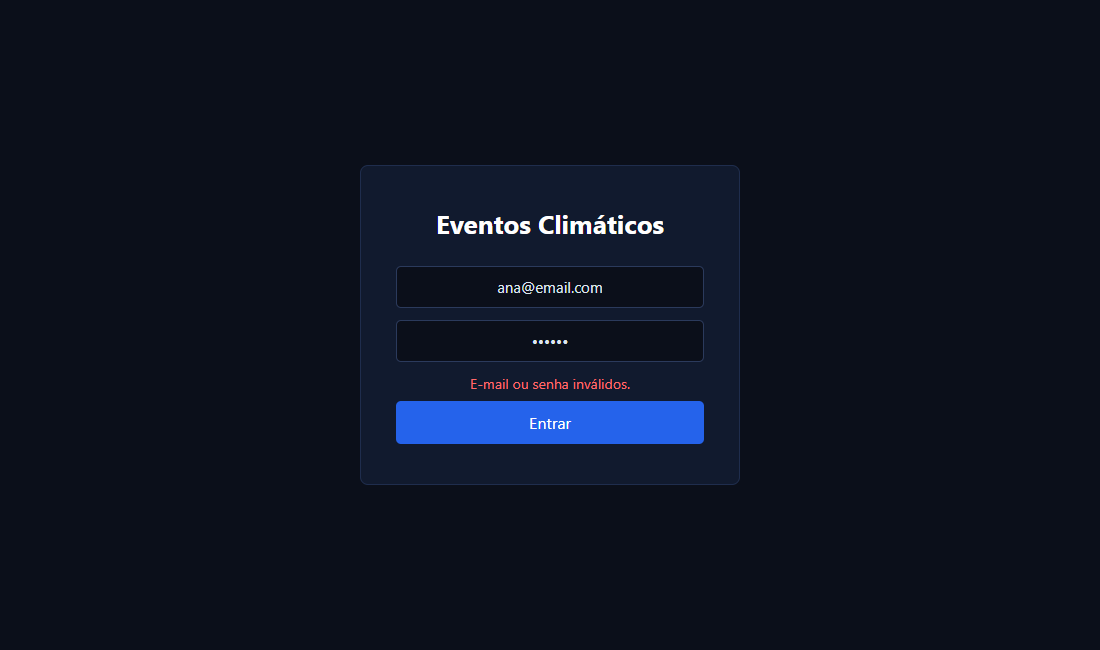
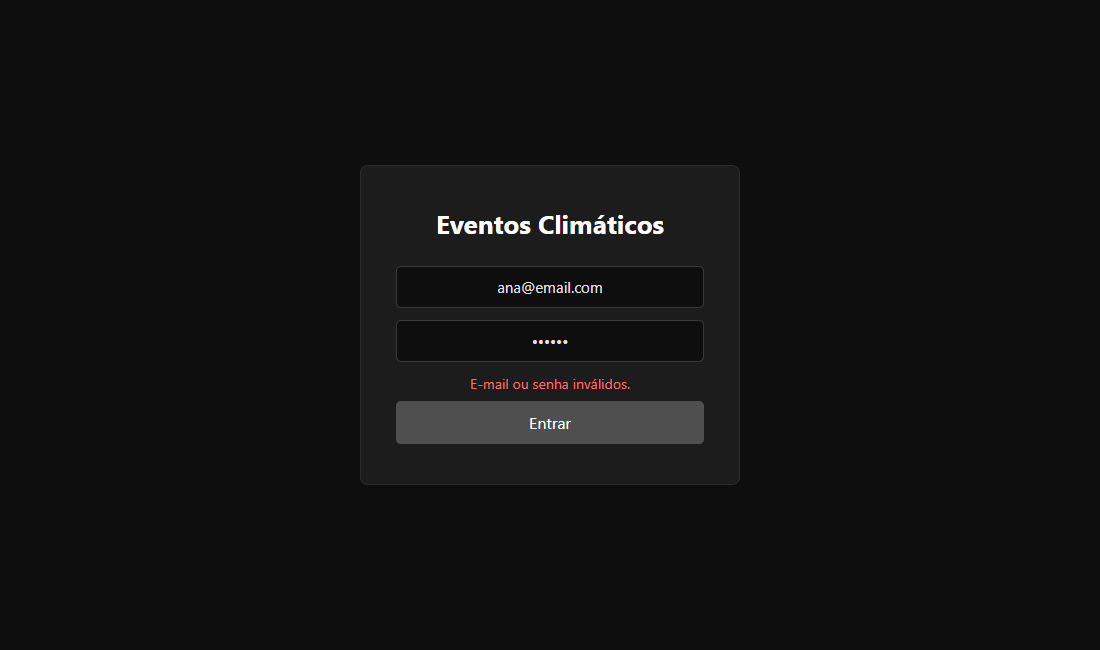
Troca o azul por cinza escuro

Changed region(s): [[0.34, 0.6154, 0.6491, 0.7077]]

diff --git a/web/css/style.css b/web/css/style.css
@@ -6,8 +6,8 @@
 
 body {
     font-family: 'Segoe UI', Arial, sans-serif;
-    background-color: #0b0f1a;
-    color: #dfe5ee;
+    background-color: #0e0e0e;
+    color: #e2e2e2;
 }
 
 button {
@@ -19,9 +19,9 @@ input, textarea {
     width: 100%;
     padding: 10px;
     margin-bottom: 12px;
-    background-color: #0b0f1a;
-    color: #dfe5ee;
-    border: 1px solid #2b3a5c;
+    background-color: #0e0e0e;
+    color: #e2e2e2;
+    border: 1px solid #3a3a3a;
     border-radius: 5px;
     font-size: 15px;
     font-family: inherit;
@@ -30,7 +30,7 @@ input, textarea {
 
 input:focus, textarea:focus {
     outline: none;
-    border-color: #3b6fd8;
+    border-color: #6b6b6b;
 }
 
 .erro {
@@ -51,8 +51,8 @@ input:focus, textarea:focus {
 }
 
 .caixa-login {
-    background-color: #111a2e;
-    border: 1px solid #1f2d4d;
+    background-color: #1c1c1c;
+    border: 1px solid #2c2c2c;
     padding: 40px 35px;
     border-radius: 8px;
     width: 100%;
@@ -73,7 +73,7 @@ input:focus, textarea:focus {
 #btnEntrar {
     width: 100%;
     padding: 11px;
-    background-color: #1d4ed8;
+    background-color: #3d3d3d;
     color: white;
     border: none;
     border-radius: 5px;
@@ -81,7 +81,7 @@ input:focus, textarea:focus {
 }
 
 #btnEntrar:hover {
-    background-color: #2563eb;
+    background-color: #4f4f4f;
 }
 
 /* ---------- HOME ---------- */
@@ -91,8 +91,8 @@ header {
     justify-content: space-between;
     align-items: center;
     padding: 15px 30px;
-    background-color: #0f1729;
-    border-bottom: 2px solid #1d4ed8;
+    background-color: #161616;
+    border-bottom: 2px solid #3d3d3d;
 }
 
 header h2 {
@@ -111,14 +111,14 @@ header h2 {
     height: 42px;
     border-radius: 50%;
     border: none;
-    background-color: #1d4ed8;
+    background-color: #3d3d3d;
     color: white;
     font-size: 24px;
     line-height: 1;
 }
 
 .btn-novo:hover {
-    background-color: #2563eb;
+    background-color: #4f4f4f;
 }
 
 #nomeUsuario {
@@ -152,9 +152,9 @@ main {
     display: flex;
     justify-content: space-between;
     align-items: center;
-    background-color: #111a2e;
-    border: 1px solid #1f2d4d;
-    border-left: 4px solid #1d4ed8;
+    background-color: #1c1c1c;
+    border: 1px solid #2c2c2c;
+    border-left: 4px solid #3d3d3d;
     border-radius: 6px;
     padding: 15px 20px;
     margin-bottom: 14px;
@@ -172,7 +172,7 @@ main {
 }
 
 .card small {
-    color: #8592ab;
+    color: #8f8f8f;
 }
 
 .acoes {
@@ -181,20 +181,20 @@ main {
 }
 
 .acoes button {
-    background-color: #0b0f1a;
-    border: 1px solid #2b3a5c;
+    background-color: #0e0e0e;
+    border: 1px solid #3a3a3a;
     border-radius: 5px;
     padding: 8px 10px;
     font-size: 17px;
 }
 
 .acoes button:hover {
-    border-color: #3b6fd8;
+    border-color: #6b6b6b;
 }
 
 .aviso {
     text-align: center;
-    color: #8592ab;
+    color: #8f8f8f;
     margin-top: 40px;
 }
 
@@ -218,8 +218,8 @@ main {
 }
 
 .modal-conteudo {
-    background-color: #111a2e;
-    border: 1px solid #1f2d4d;
+    background-color: #1c1c1c;
+    border: 1px solid #2c2c2c;
     border-radius: 8px;
     padding: 25px;
     width: 100%;
@@ -235,7 +235,7 @@ main {
     display: block;
     font-size: 14px;
     margin-bottom: 4px;
-    color: #a9b4c9;
+    color: #b0b0b0;
 }
 
 .botoes {
@@ -251,15 +251,15 @@ main {
 }
 
 #btnSalvar {
-    background-color: #1d4ed8;
+    background-color: #3d3d3d;
     color: white;
     border: none;
 }
 
 .btn-cancelar {
     background: none;
-    color: #dfe5ee;
-    border: 1px solid #2b3a5c;
+    color: #e2e2e2;
+    border: 1px solid #3a3a3a;
 }
 
 /* celular */
